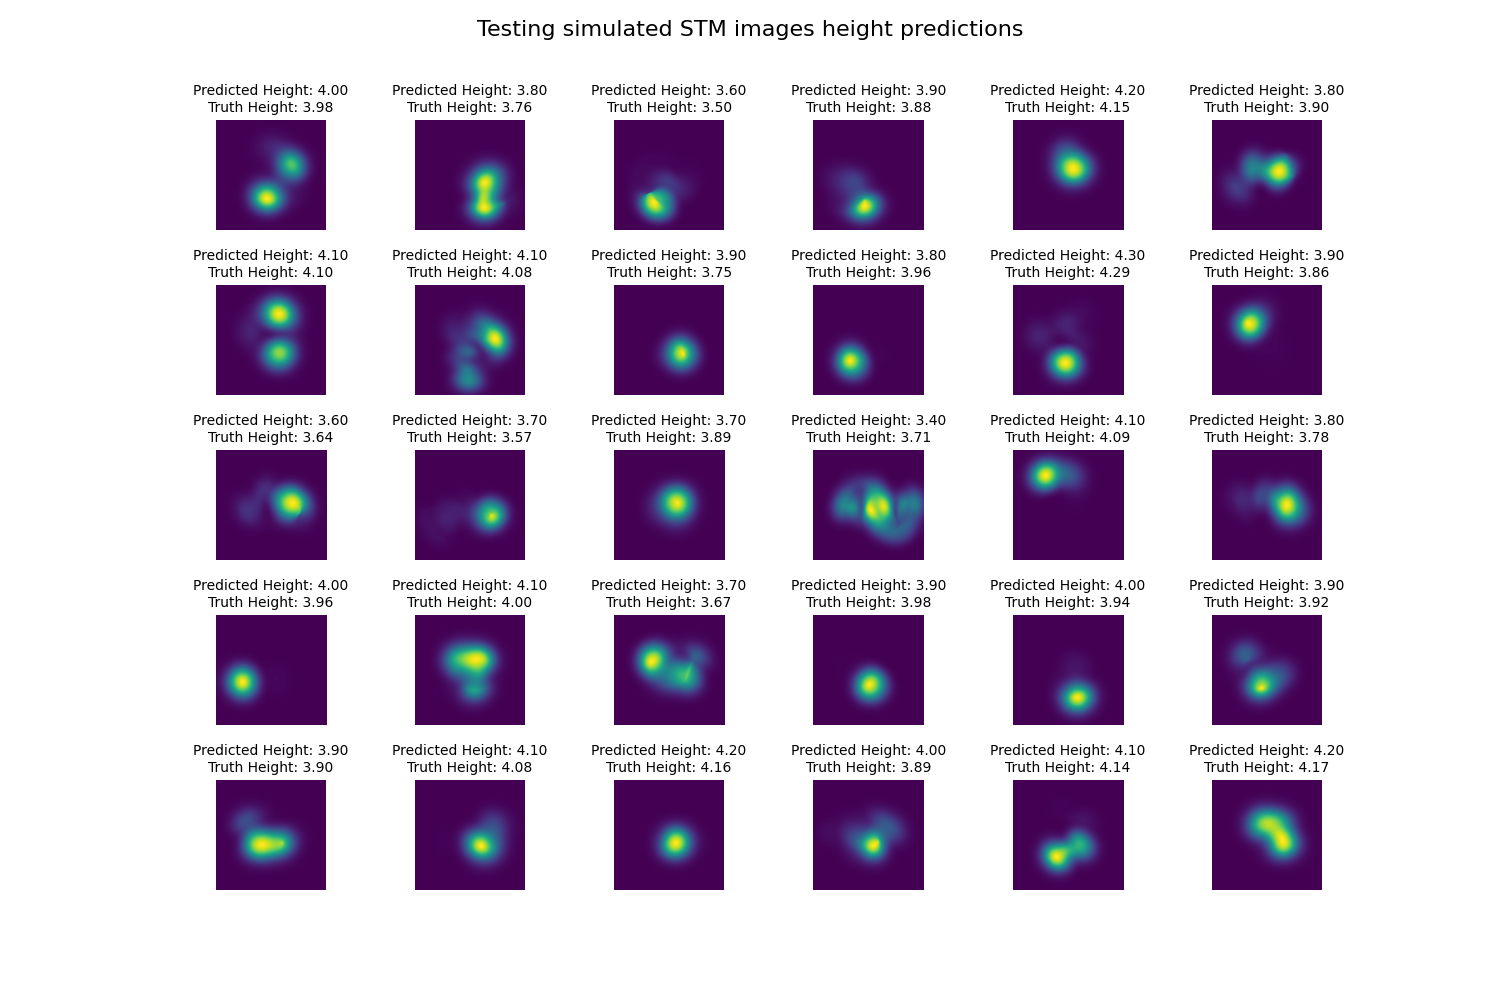
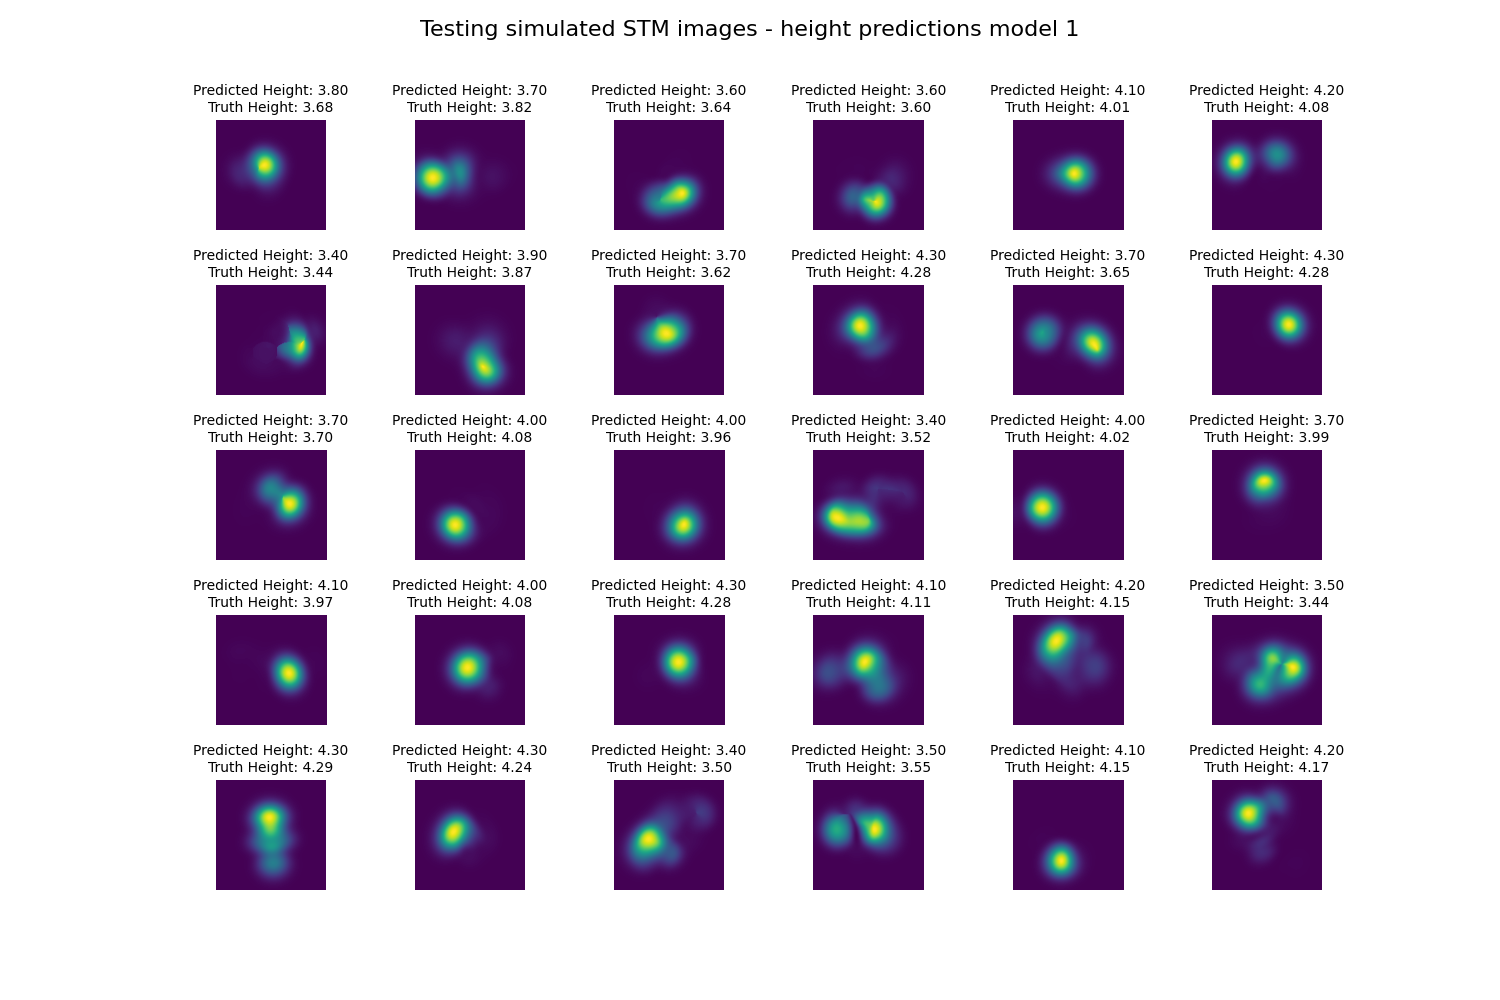
Modifing the titles of the figs

diff --git a/height_prediction/model_1/load_simul_validation.py b/height_prediction/model_1/load_simul_validation.py
@@ -56,7 +56,7 @@ def plot_images(images, subtitles1, subtitles2, n_rows):
     fig, axes = plt.subplots(n_rows, n_cols, figsize=(15, 10))
     axes = axes.flatten()
 	
-    fig.suptitle("Testing simulated STM images height predictions", fontsize=16)	
+    fig.suptitle("Testing simulated STM images - height predictions model 1", fontsize=16)	
 	
     for img, subtitle1, subtitle2, ax in zip(images.cpu(), subtitles1, subtitles2, axes):
         ax.imshow(np.transpose(img.numpy(), (1, 2, 0)))

diff --git a/height_prediction/model_1/load_exper_validation.py b/height_prediction/model_1/load_exper_validation.py
@@ -42,7 +42,7 @@ def plot_images(images, subtitles, n_rows):
     fig, axes = plt.subplots(n_rows, n_cols, figsize=(15, 10))
     axes = axes.flatten()
 	
-    fig.suptitle("Experimental STM images: silicon-carbon compound molecule", fontsize=16)	
+    fig.suptitle("Experimental STM images: silicon-carbon compound molecule - model 1", fontsize=16)	
 	
     for img, subtitle, ax in zip(images.cpu(), subtitles, axes):
         ax.imshow(np.transpose(img.numpy(), (1, 2, 0)))
